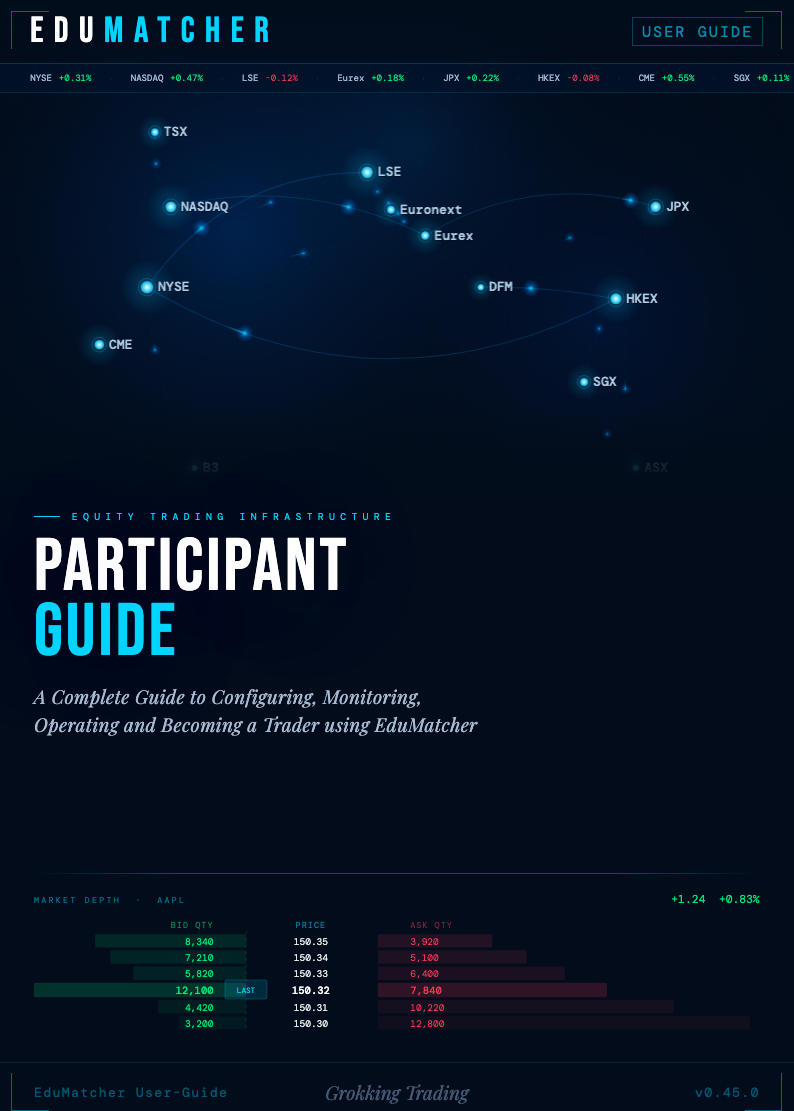
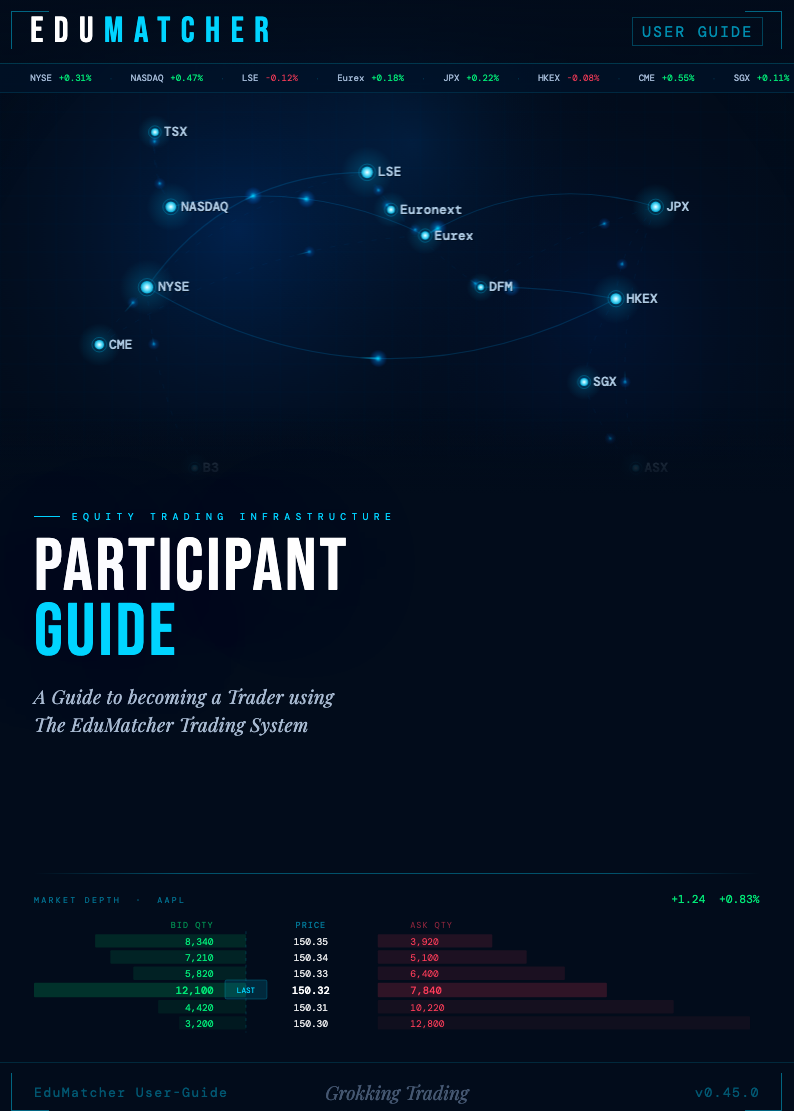
docs(covers): updated all subtitle in covers

diff --git a/docs/assets/cover-protocols-and-clients.html b/docs/assets/cover-protocols-and-clients.html
@@ -353,8 +353,8 @@ body {
       PROTOCOLS<br><span class="accent">AND CLIENTS</span>
     </div>
     <div class="subtitle">
-      A Complete Guide to Configuring, Monitoring, <br>
-      Operating and Becoming a Trader using EduMatcher
+      A Guide to the Protocols of EduMatcher and How to <br>
+      Build External TCP Clients of EduMatcher
     </div>
   </div>
 

diff --git a/docs/assets/cover-reference-manual.html b/docs/assets/cover-reference-manual.html
@@ -353,8 +353,8 @@ body {
       REFERENCE<br><span class="accent">MANUAL</span>
     </div>
     <div class="subtitle">
-      A Complete Guide to Configuring, Monitoring, <br>
-      Operating and Becoming a Trader using EduMatcher
+      The Technical Reference Manual for EduMatcher<br>
+      With Complete Technical Details
     </div>
   </div>
 

diff --git a/docs/assets/cover-operator-guide.html b/docs/assets/cover-operator-guide.html
@@ -353,8 +353,8 @@ body {
       OPERATOR'S<br><span class="accent">GUIDE</span>
     </div>
     <div class="subtitle">
-      A Complete Guide to Configuring, Monitoring, <br>
-      Operating and Becoming a Trader using EduMatcher
+      A Complete Guide to Operating and Managing<br>
+      the EduMatcher Trading System
     </div>
   </div>
 

diff --git a/docs/assets/cover-participant-guide.html b/docs/assets/cover-participant-guide.html
@@ -353,8 +353,8 @@ body {
       PARTICIPANT<br><span class="accent">GUIDE</span>
     </div>
     <div class="subtitle">
-      A Complete Guide to Configuring, Monitoring, <br>
-      Operating and Becoming a Trader using EduMatcher
+      A Guide to becoming a Trader using<br>
+      The EduMatcher Trading System
     </div>
   </div>
 

diff --git a/docs/assets/cover-quick-start.html b/docs/assets/cover-quick-start.html
@@ -353,8 +353,7 @@ body {
       QUICK<br><span class="accent">START</span><br>GUIDE
     </div>
     <div class="subtitle">
-      A Complete Guide to Configuring, Monitoring, <br>
-      Operating and Becoming a Trader using EduMatcher
+      How to Get Started with EduMatcher
     </div>
   </div>
 
